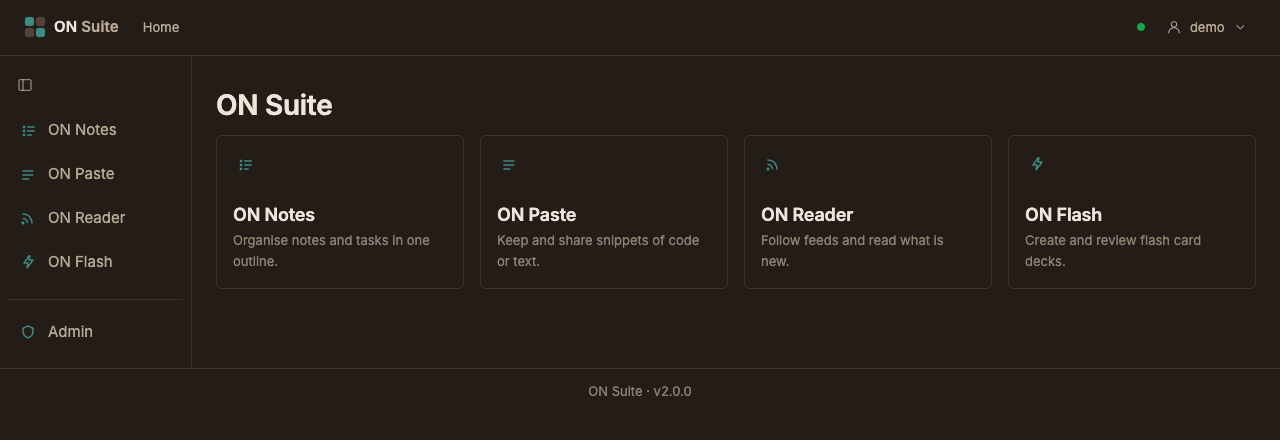
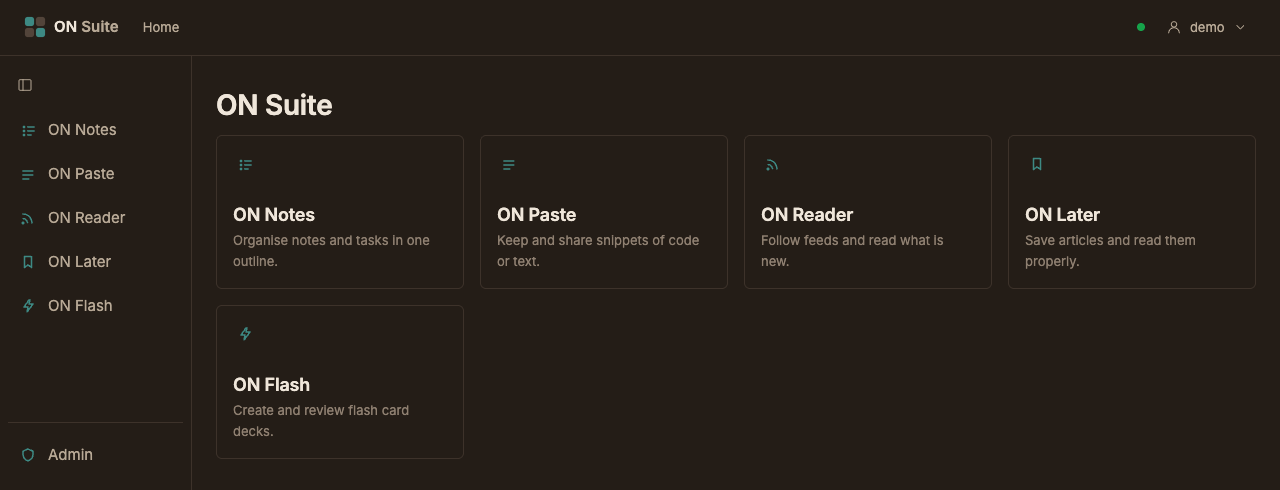
docs(later): demo articles, screenshots and ON Later in the app lists

diff --git a/docs/screenshots/seed/fixtures/later/reading-slowly.html b/docs/screenshots/seed/fixtures/later/reading-slowly.html
@@ -1,0 +1,12 @@
+<p>Most of what I read in a day, I read the way I cross a busy road: quickly, looking both ways, glad to reach the other side. Headlines, messages, the first paragraph of something a friend sent. That kind of reading has its place. It is how we keep up.</p>
+<p>But some writing asks for more. A long essay, a careful argument, a story that takes its time. Read at headline speed, it slides past and leaves nothing behind. You finish it and could not say what it was about.</p>
+<h2>Slow is a skill</h2>
+<p>Reading slowly is not the same as reading badly. It means stopping at a sentence that surprised you and asking why. It means going back a paragraph when the thread slips. It means letting a good line sit for a moment before moving on.</p>
+<p>None of this comes naturally on a screen built for scrolling. The page wants you to keep going; the next thing is always one flick away. <strong>A calm place to read is the first thing slow reading needs.</strong></p>
+<blockquote><p>The point of reading is not to finish. It is to be changed a little by what you read.</p></blockquote>
+<h2>Marking what matters</h2>
+<p>The second thing is a pencil. Underlining a passage is a small act of attention: it tells your future self that this mattered, and it makes you decide whether it did. A note in the margin turns reading into a conversation.</p>
+<p>Later, those marks are what you come back to. Not the whole article, but the three sentences that stayed with you and what you thought about them at the time.</p>
+<h2>Try it this week</h2>
+<ul><li>Pick one long piece you have been putting off.</li><li>Read it in one sitting, somewhere quiet.</li><li>Mark no more than three passages, and write one line about each.</li></ul>
+<p>Then put it away. A week later, read only your marks. You may be surprised how much of the article comes back with them.</p>

diff --git a/docs/screenshots/seed/fixtures/later/sourdough.html b/docs/screenshots/seed/fixtures/later/sourdough.html
@@ -1,0 +1,4 @@
+<p>My first sourdough starter died in a week. I fed it when I remembered, kept it somewhere cold, and expected bread by Saturday. The second one lived, mostly because I stopped expecting anything.</p>
+<p>A starter is flour, water and time. The flour and water are easy. The time is the hard part: a few days of feeding at the same hour, watching for bubbles, smelling it change from paste to something sour and alive.</p>
+<p>What it taught me is patience of a practical kind. Not waiting and hoping, but doing the same small thing every day and trusting it to add up. The bread, when it finally came, was flat and dense and the best thing I had baked.</p>
+<p>These days the starter lives in the fridge and gets fed on Sundays. It has outlived two ovens. I still check it for bubbles, out of habit and a little affection.</p>

diff --git a/docs/screenshots/seed/fixtures/later/spring-sky.html b/docs/screenshots/seed/fixtures/later/spring-sky.html
@@ -1,0 +1,4 @@
+<p>Spring evenings are a good time to start looking up. The nights are still long, the air is often clear, and some of the easiest patterns in the sky are high overhead after dark.</p>
+<p>Start with something you can find without a chart. The brightest planet is usually the first point of light to appear in the west after sunset. Once you have it, look for the bright stars around it and learn them one at a time.</p>
+<p>Give your eyes twenty minutes away from screens and street lights. Faint stars appear one by one as your eyes adjust, and a sky that looked empty fills up.</p>
+<p>Binoculars help more than most people expect. Sweep slowly along the band of the Milky Way and you will see clusters that no naked eye can separate.</p>

diff --git a/docs/screenshots/seed/fixtures/later/short-memory.html b/docs/screenshots/seed/fixtures/later/short-memory.html
@@ -1,0 +1,4 @@
+<p>Every coach I have had said the same thing: the last point is gone. You cannot win it back by thinking about it. The players who do well in long matches are the ones who forget quickly.</p>
+<p>That sounds simple and is not. A missed easy ball sticks. You replay it while the next serve is already in the air, and lose that point too.</p>
+<p>The trick most good players use is a small routine between points: wipe the hand on the table, look at the racket, breathe out, decide on the next serve. It gives the mind something to do that is not the last mistake.</p>
+<p>Short memory is not the same as not caring. It is caring about the right point, which is always the next one.</p>

diff --git a/docs/screenshots/seed/fixtures/later/small-software.html b/docs/screenshots/seed/fixtures/later/small-software.html
@@ -1,0 +1,5 @@
+<p>Small software is software one person can hold in their head. It does a few things, does them well, and can be read in an afternoon.</p>
+<p>It is easy to underrate. Small tools rarely look impressive in a demo, and they do not grow a team around them. But they are the ones still running ten years later, because nobody was ever afraid to change them.</p>
+<h2>Three habits</h2>
+<ol><li>Say no to the feature that only one person wants once.</li><li>Keep one way of doing each thing.</li><li>Write down why, not just what.</li></ol>
+<p>None of these are clever. They are a kind of patience with your own code: choosing to leave it smaller than you could make it.</p>

diff --git a/docs/screenshots/seed/later.go b/docs/screenshots/seed/later.go
@@ -1,0 +1,134 @@
+package main
+
+import (
+	"context"
+	"fmt"
+	"strings"
+	"time"
+	"unicode/utf8"
+
+	"github.com/iliafrenkel/on-suite/internal/apps/later"
+)
+
+// laterFixture is one demo article. body names a file under fixtures/later
+// ("" saves it link-only, with extractErr). Times are days before now;
+// zero means never. highlights are {quote, comment} pairs, each quote found
+// in the article's text.
+type laterFixture struct {
+	url, title, site, byline, body, extractErr string
+	tags                                       []string
+	saved, opened, archived                    float64
+	note                                       string
+	highlights                                 [][2]string
+}
+
+// laterFixtures are saved in this order, so "The case for reading slowly"
+// is article 1, the one the reading-view shots open (see shotIDs in
+// seed_test.go). Nothing here has images or a favicon URL: the demo server
+// must never fetch from the network.
+var laterFixtures = []laterFixture{
+	{
+		url: "https://essays.example.com/reading-slowly", title: "The case for reading slowly",
+		site: "Quiet Essays", byline: "Mara Lind", body: "reading-slowly.html",
+		tags: []string{"essays", "reading"}, saved: 6, opened: 0.5,
+		note: "Good reminder to stop skimming. Three marks per article feels like the right limit — any more and nothing stands out.",
+		highlights: [][2]string{
+			{"Reading slowly is not the same as reading badly.", "This is the whole argument in one line."},
+			{"A calm place to read is the first thing slow reading needs.", ""},
+			{"Underlining a passage is a small act of attention", "Patience with a pencil in hand. Try it with the next long essay."},
+		},
+	},
+	{
+		url: "https://dev.example.com/small-software", title: "Notes on building small software",
+		site: "Dev Notes", byline: "Lena Hart", body: "small-software.html",
+		tags: []string{"essays", "work"}, saved: 20, opened: 15, archived: 10,
+		note: "Re-read when tempted to add another setting. Patience over features.",
+		highlights: [][2]string{
+			{"Small software is software one person can hold in their head.", "A good test for anything I build at home."},
+			{"Keep one way of doing each thing.", ""},
+		},
+	},
+	{
+		url: "https://astro.example.net/spring-sky", title: "A beginner's guide to the spring night sky",
+		site: "Backyard Astronomy", byline: "Priya Nair", body: "spring-sky.html",
+		tags: []string{"science"}, saved: 3,
+		highlights: [][2]string{
+			{"Give your eyes twenty minutes away from screens and street lights.", "Try this from the back yard on Friday."},
+		},
+	},
+	{
+		url: "https://news.example.com/2026/city-libraries", title: "The future of city libraries",
+		extractErr: "Couldn't find an article on the page: it asks you to sign in first.",
+		tags:       []string{"reading"}, saved: 2,
+	},
+	{
+		url: "https://kitchen.example.org/sourdough-patience", title: "What a sourdough starter taught me about patience",
+		site: "Home Kitchen", byline: "Tom Avery", body: "sourdough.html",
+		tags: []string{"cooking"}, saved: 1,
+	},
+	{
+		url: "https://club.example.com/short-memory", title: "Why table tennis rewards a short memory",
+		site: "Club Notes", byline: "Sam Okafor", body: "short-memory.html",
+		tags: []string{"sport"}, saved: 0.2,
+	},
+}
+
+func seedLater(ctx context.Context, st *later.Store, userID int64, now time.Time) error {
+	ago := func(days float64) time.Time { return now.Add(-time.Duration(days * float64(day))) }
+	for _, f := range laterFixtures {
+		html := ""
+		if f.body != "" {
+			b, err := fixtures.ReadFile("fixtures/later/" + f.body)
+			if err != nil {
+				return err
+			}
+			html = string(b)
+		}
+		st.SetClock(at(ago(f.saved)))
+		art, _, err := st.Save(ctx, userID, later.NewArticle{
+			URL: f.url, Title: f.title, SiteName: f.site, Byline: f.byline,
+			ContentHTML: html, ExtractError: f.extractErr, Tags: f.tags,
+		})
+		if err != nil {
+			return err
+		}
+		for _, h := range f.highlights {
+			start, ok := runeIndex(art.ContentText, h[0])
+			if !ok {
+				return fmt.Errorf("seed: %q is not in %q", h[0], f.title)
+			}
+			end := start + utf8.RuneCountInString(h[0])
+			if _, err := st.AddHighlight(ctx, art.ID, art.ContentText, start, end, h[0], h[1]); err != nil {
+				return err
+			}
+		}
+		if f.note != "" {
+			if err := st.SetNote(ctx, userID, art.ID, f.note); err != nil {
+				return err
+			}
+		}
+		if f.opened > 0 {
+			st.SetClock(at(ago(f.opened)))
+			if err := st.MarkOpened(ctx, userID, art.ID); err != nil {
+				return err
+			}
+		}
+		if f.archived > 0 {
+			st.SetClock(at(ago(f.archived)))
+			if err := st.SetState(ctx, userID, art.ID, later.StateArchived); err != nil {
+				return err
+			}
+		}
+	}
+	return nil
+}
+
+// runeIndex is quote's offset in text in code points, the unit highlight
+// offsets use.
+func runeIndex(text, quote string) (int, bool) {
+	i := strings.Index(text, quote)
+	if i < 0 {
+		return 0, false
+	}
+	return utf8.RuneCountInString(text[:i]), true
+}

diff --git a/docs/screenshots/seed/seed_test.go b/docs/screenshots/seed/seed_test.go
@@ -11,6 +11,7 @@ import (
 	"time"
 
 	"github.com/iliafrenkel/on-suite/internal/apps/flash"
+	"github.com/iliafrenkel/on-suite/internal/apps/later"
 	"github.com/iliafrenkel/on-suite/internal/apps/notes"
 	"github.com/iliafrenkel/on-suite/internal/apps/paste"
 	"github.com/iliafrenkel/on-suite/internal/apps/reader"
@@ -139,6 +140,21 @@ func TestSeedFillsEveryApp(t *testing.T) {
 		t.Errorf("reader daily stats = %+v, %v; want some reading history", days, err)
 	}
 
+	// Later: articles in every state, one link-only, highlights and a
+	// note — and nothing for the image job to fetch: the demo must never
+	// reach the network.
+	ls := later.NewStore(handle)
+	counts, err := ls.Counts(ctx, demo.ID, "")
+	if err != nil || counts[later.StateUnread] < 3 || counts[later.StateReading] < 1 || counts[later.StateArchived] < 1 {
+		t.Errorf("later counts = %v, %v; want unread >= 3, reading >= 1, archived >= 1", counts, err)
+	}
+	if hl, err := ls.Highlights(ctx, 1); err != nil || len(hl) < 3 {
+		t.Errorf("later article 1 highlights = %d, %v; want >= 3", len(hl), err)
+	}
+	if imgs, err := ls.ImagesToFetch(ctx, 100); err != nil || len(imgs) != 0 {
+		t.Errorf("later images to fetch = %d, %v; want none", len(imgs), err)
+	}
+
 	// Flash: decks with cards, a review history and a streak.
 	fs := flash.NewStore(handle)
 	decks, _ := fs.ListDecks(ctx, demo.ID)
@@ -165,11 +181,12 @@ var shotIDs = map[string]map[int64]string{
 	"notes":  {25: "Before we go"},
 	"reader": {10: "The Orionids peak this month: how to watch"},
 	"flash":  {1: "Japanese travel phrases", 2: "F1 circuits"},
+	"later":  {1: "The case for reading slowly"},
 }
 
 // shotIDRe finds the seeded IDs in shots.go URLs: /paste/3, /notes/25,
-// /reader/item/10, /flash/2/cards/, /flash/review/2.
-var shotIDRe = regexp.MustCompile(`URL: "/(paste|notes|reader/item|flash(?:/review)?)/(\d+)`)
+// /reader/item/10, /flash/2/cards/, /flash/review/2, /later/a/1.
+var shotIDRe = regexp.MustCompile(`URL: "/(paste|notes|reader/item|flash(?:/review)?|later/a)/(\d+)`)
 
 func TestShotIDsPointAtTheIntendedItems(t *testing.T) {
 	src, err := os.ReadFile("../capture/shots.go")
@@ -215,6 +232,10 @@ func TestShotIDsPointAtTheIntendedItems(t *testing.T) {
 		"reader": func(id int64) (string, error) {
 			it, err := reader.NewStore(handle).Item(ctx, demo.ID, id)
 			return it.Title, err
+		},
+		"later": func(id int64) (string, error) {
+			a, err := later.NewStore(handle).Article(ctx, demo.ID, id)
+			return a.Title, err
 		},
 		"flash": func(id int64) (string, error) {
 			d, err := flash.NewStore(handle).DeckByID(ctx, demo.ID, id)

diff --git a/docs/screenshots/capture/shots.go b/docs/screenshots/capture/shots.go
@@ -57,6 +57,16 @@ var shots = []shot{
 		document.querySelector('details.reader-mark-all-menu').open = true;`},
 	{Name: "docs/user/images/reader-stats.png", URL: "/reader/stats", Height: 660},
 
+	// docs/user/later.md
+	// Article 1 is already Reading in the seed, so opening it changes no
+	// tab. The search shot loads the results page directly (?q=).
+	{Name: "docs/user/images/later-list.png", URL: "/later/", Height: 590},
+	{Name: "docs/user/images/later-search.png", URL: "/later/?q=patience", Height: 640},
+	{Name: "docs/user/images/later-reading.png", URL: "/later/a/1", Height: 1005},
+	{Name: "docs/user/images/later-notes.png", URL: "/later/a/1", Height: 760, Setup: `
+		document.getElementById('later-notes-open').checked = true;
+		await new Promise(r => setTimeout(r, 600));`},
+
 	// docs/user/flash.md
 	// Nothing here grades a card or answers sam's pending gift: the review
 	// shot only turns the card over, so due counts and stats stay as seeded.
@@ -85,15 +95,17 @@ var shots = []shot{
 
 	// README.md — the hero and one thumbnail per app, light and dark, at the
 	// default 1280×800 (thumbnails show at about half width).
-	// The hero is the dashboard, cropped: it shows all four apps at a glance.
-	{Name: "docs/images/hero-light.png", URL: "/", Height: 440},
-	{Name: "docs/images/hero-dark.png", URL: "/", Height: 440, Theme: "dark"},
+	// The hero is the dashboard, cropped: it shows all five apps at a glance.
+	{Name: "docs/images/hero-light.png", URL: "/", Height: 490},
+	{Name: "docs/images/hero-dark.png", URL: "/", Height: 490, Theme: "dark"},
 	{Name: "docs/images/app-paste-light.png", URL: "/paste/7"},
 	{Name: "docs/images/app-paste-dark.png", URL: "/paste/7", Theme: "dark"},
 	{Name: "docs/images/app-notes-light.png", URL: "/notes/"},
 	{Name: "docs/images/app-notes-dark.png", URL: "/notes/", Theme: "dark"},
 	{Name: "docs/images/app-reader-light.png", URL: "/reader/item/10?scope=all&filter=all", Setup: readerScrollToActive},
 	{Name: "docs/images/app-reader-dark.png", URL: "/reader/item/10?scope=all&filter=all", Theme: "dark", Setup: readerScrollToActive},
+	{Name: "docs/images/app-later-light.png", URL: "/later/a/1"},
+	{Name: "docs/images/app-later-dark.png", URL: "/later/a/1", Theme: "dark"},
 	{Name: "docs/images/app-flash-light.png", URL: "/flash/2/cards/"},
 	{Name: "docs/images/app-flash-dark.png", URL: "/flash/2/cards/", Theme: "dark"},
 }

diff --git a/docs/screenshots/seed/seed.go b/docs/screenshots/seed/seed.go
@@ -105,6 +105,7 @@ func Seed(ctx context.Context, dataDir string, now time.Time) (string, error) {
 		func() error { return seedPastes(ctx, paste.NewStore(handle), demo.ID, now, dataDir) },
 		func() error { return seedNotes(ctx, notes.NewStore(handle), demo.ID, now, dataDir) },
 		func() error { return seedReader(ctx, reader.NewStore(handle), demo.ID, now) },
+		func() error { return seedLater(ctx, later.NewStore(handle), demo.ID, now) },
 		func() error { return seedFlash(ctx, flash.NewStore(handle), demo.ID, sam.ID, now) },
 	}
 	for _, step := range steps {

diff --git a/docs/user/later.md b/docs/user/later.md
@@ -46,6 +46,8 @@ Articles are in three lists:
 - **Archived** — finished. Click **Archive** when you're done with an
   article; **Move to unread** brings it back.
 
+![The ON Later list: Unread, Reading and Archived tabs, tag chips, and rows with reading time, tags and a link-only article](images/later-list.png)
+
 ## Tags
 
 Tags group articles however suits you — `essays`, `work`, `to cook`.
@@ -74,6 +76,8 @@ searched for marked.
 A selected tag narrows the search too. Click **Clear search**, or empty the
 box, to go back to the list you were on.
 
+![Search results for "patience", each with a line showing whether it matched in a highlight, the note or the text](images/later-search.png)
+
 ## Reading an article
 
 An article opens full screen. The top bar has:
@@ -87,6 +91,8 @@ An article opens full screen. The top bar has:
 - **⋯** — change the article's **Tags**, **Download as Markdown**, **Open
   original** to see the page on its own site, or **Delete** the article.
 
+![An article open in ON Later, with highlighted passages and their comments in the margin](images/later-reading.png)
+
 ON Later remembers where you stopped and opens there next time. The
 line under the top bar shows how far through you are, and the bar shows the
 minutes left. **Move to unread** starts the article again from the top.
@@ -97,6 +103,8 @@ minutes left. **Move to unread** starts the article again from the top.
 the whole article in the note at the top; it saves when you click
 elsewhere. The same note is at the end of the article, so you can write
 it as soon as you finish reading.
+
+![The Notes panel open beside the article, with the note at the top and every highlight listed below it](images/later-notes.png)
 
 Select a passage in the article and a small box appears under it.
 Click **Highlight** to mark it, or **Highlight + comment** to add a

diff --git a/README.md b/README.md
@@ -7,7 +7,7 @@ own computer.
 <p align="center">
   <picture>
     <source media="(prefers-color-scheme: dark)" srcset="docs/images/hero-dark.png">
-    <img src="docs/images/hero-light.png" alt="The ON Suite dashboard, with a card for each app: ON Notes, ON Paste, ON Reader and ON Flash" width="100%">
+    <img src="docs/images/hero-light.png" alt="The ON Suite dashboard, with a card for each app: ON Notes, ON Paste, ON Reader, ON Later and ON Flash" width="100%">
   </picture>
 </p>
 
@@ -42,7 +42,7 @@ multi-tenant hardening, this isn't it. It's the opposite bet, optimised for
 
 ## The apps
 
-Sign in once and move freely between four apps.
+Sign in once and move freely between five apps.
 
 ### ON Notes
 
@@ -84,6 +84,22 @@ The newest articles from your favourite websites in one place, so you don't
 have to visit each site to see what's new. Sort feeds into folders, star
 what you want to keep and fetch the full article when a feed only sends a
 summary. [Read the ON Reader guide →](docs/user/reader.md)
+
+### ON Later
+
+<p align="center">
+  <picture>
+    <source media="(prefers-color-scheme: dark)" srcset="docs/images/app-later-dark.png">
+    <img src="docs/images/app-later-light.png" alt="ON Later: an essay open in a calm reading view, with highlighted passages and comments in the margin">
+  </picture>
+</p>
+
+A private read-it-later shelf for writing that deserves more than a skim.
+Save a page from its address, a bookmarklet or ON Reader, and ON Later
+keeps a clean copy — text and pictures — to read in a quiet view.
+Highlight passages, comment on them, keep a note on the whole article, and
+download it all as Markdown.
+[Read the ON Later guide →](docs/user/later.md)
 
 ### ON Flash
 

diff --git a/AGENTS.md b/AGENTS.md
@@ -10,9 +10,11 @@ not built for SaaS scale — no multi-tenancy, no CGO, no Node/npm/JS build
 step. **ON Paste** (snippets with syntax highlighting and shareable links),
 **ON Notes** (a hierarchical outliner, still being built out), **ON
 Reader** (a feed reader, with search, OPML import/export, full-article
-extraction, and reading-stats), and **ON Flash** (flash cards with FSRS
-review, import from AI-written Markdown/JSON, media, household sharing and
-stats) are all registered today.
+extraction, and reading-stats), **ON Later** (a read-it-later app: save
+pages, read them in a calm view, highlight, comment and tag them, export as
+Markdown), and **ON Flash** (flash cards with FSRS review, import from
+AI-written Markdown/JSON, media, household sharing and stats) are all
+registered today.
 
 Full rationale for every design choice below lives in
 [docs/superpowers/specs/2026-08-18-on-suite-platform-design.md](docs/superpowers/specs/2026-08-18-on-suite-platform-design.md).
